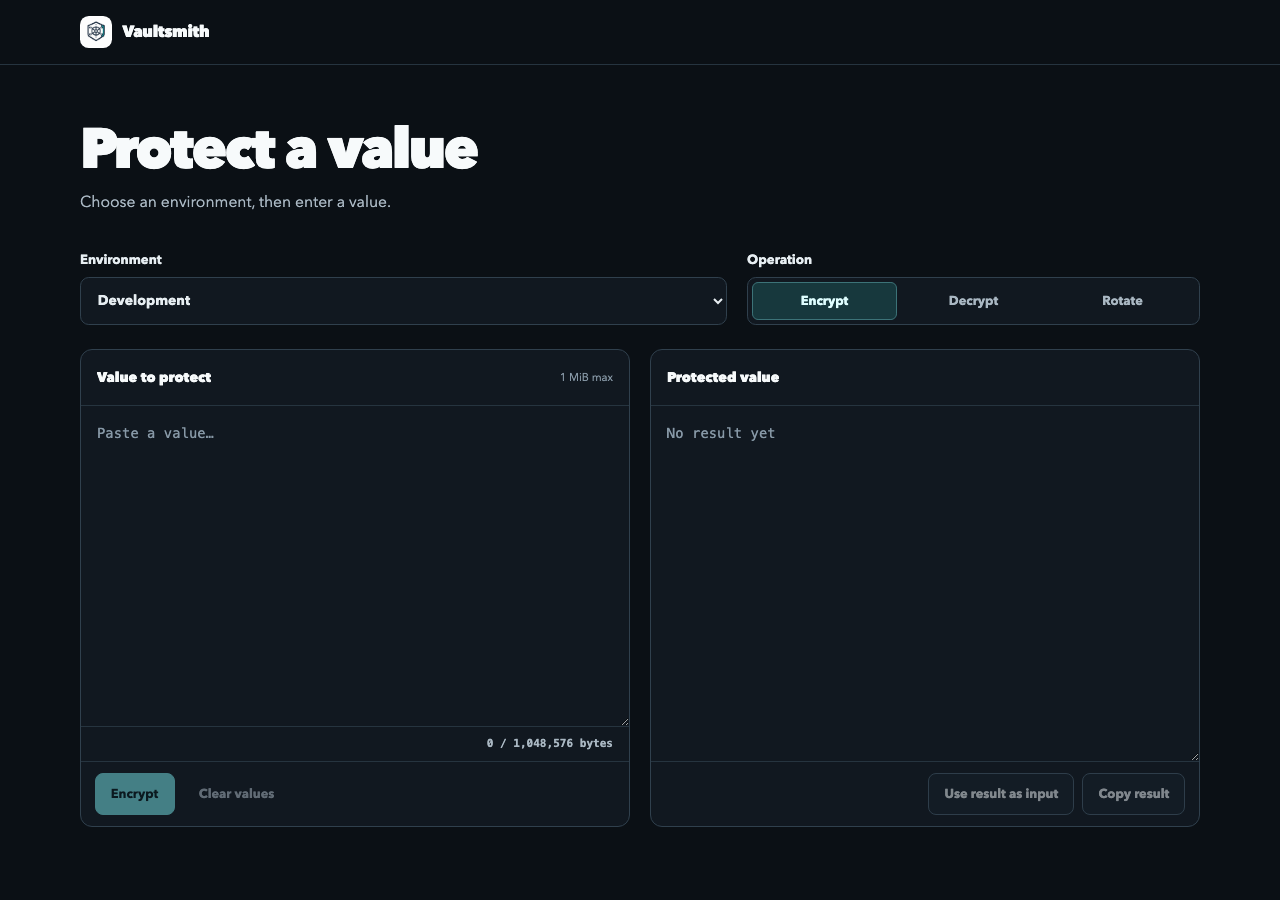
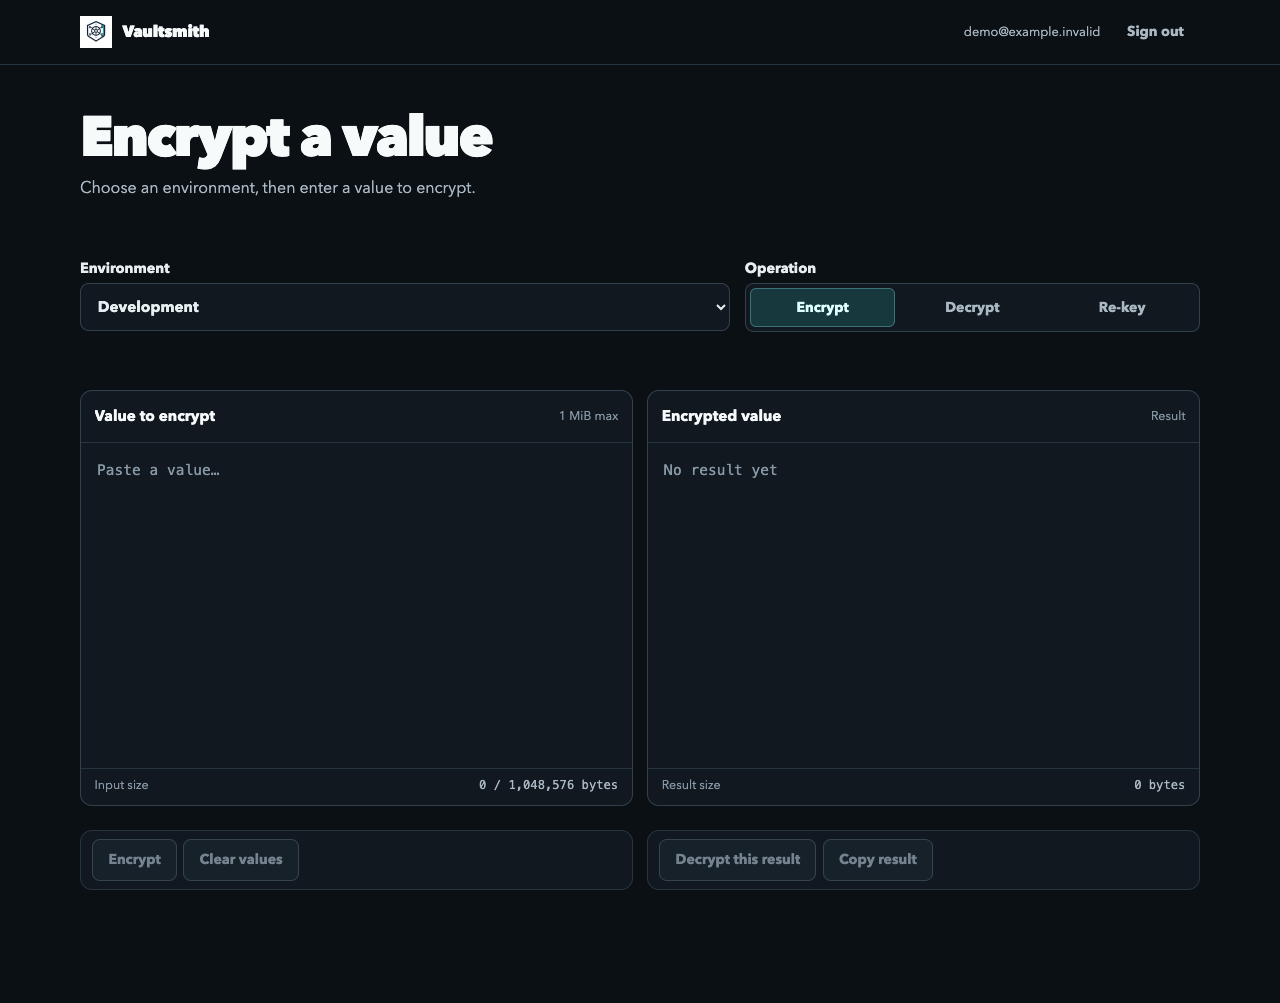
docs: refresh README screenshots

diff --git a/README.md b/README.md
@@ -17,7 +17,9 @@ Application limits:
 - Decrypt and re-key input: 5 MiB of UTF-8 Vault text.
 - JSON request body: 8 MiB.
 
-![Vaultsmith workbench](docs/screenshots/workbench.png)
+![Vaultsmith empty Encrypt workbench](docs/screenshots/workbench.png)
+
+![Vaultsmith encrypted result](docs/screenshots/encrypted-value.png)
 
 ## Use Vaultsmith
 
